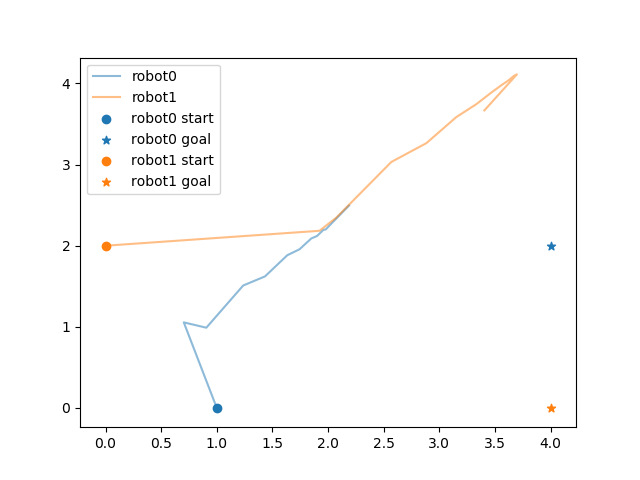
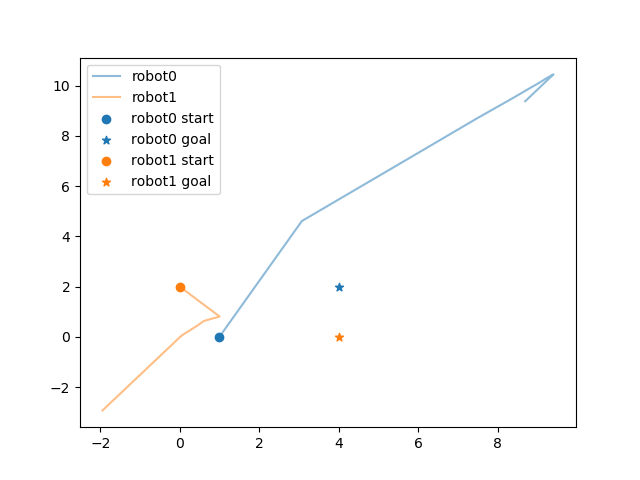
works ok

diff --git a/agent.py b/agent.py
@@ -21,7 +21,7 @@ class Robot():
         # self.u0= np.vstack((np.ones((self.dim,K)),
         #                     np.float64(np.random.randint(-2,5,
         #                                         size=(self.H,K)))))
-        self.u0=u0
+        self.u0=np.float64(np.random.randint(-2,5,size=(self.H*self.K,1)))
         # self.u0 =
         # self.u0 = np.ones((self.H,1))
         self.control=[]
@@ -71,31 +71,33 @@ class Robot():
         # pdb.set_trace()
         reach_goal =self.W @(self.col @ self.inits + self.M @ u )-self.goals
         regularization = 0
-        cost = 0.5 * np.linalg.norm(reach_goal,2) ** 2
-        self.away_from_the_goal=(cost*2)
-
+        print('final pos:')
+        print(self.W @(self.col @ self.inits + self.M @ u ))
+        # cost =
+        self.away_from_the_goal=( np.linalg.norm(reach_goal,2) **2)
 
         for j in range(self.K):
             if j == self.index:
                 pass #myself, skip
             else:
                 uj_prev = self.neighbors_dict[j]
-                regularization += np.linalg.norm(u-(self.u_prev+uj_prev)/2 )**2
+                regularization += self.rho/2.0 * np.linalg.norm(u-(self.u_prev+uj_prev)/2 )**2
         # pdb.set_trace()
         self.regularization=regularization
-        cost += self.rho/2.0 * regularization +(u.T @ self.lambd)[0,0]
 
-        # pdb.set_trace()
-        '''
-        todo: add collision avoidance
-        first two values of u should not change over iteration
-        '''
+        cost =0.5 * np.linalg.norm(reach_goal,2) ** 2+ regularization + ((u.T @ self.lambd)[0,0])
+
+        # return (1.0/self.K)*self.W @(self.col @ self.inits + self.M @ u )-self.goals + \
+        #                 self.rho/2.0 *np.linalg.norm(u-(self.u_prev+uj_prev)/2 )**2 + \
+        #                 (u.T @ self.lambd)[0,0]
+        # print('distacne cost:%.2f, regularize %.2f'%(0.5 * np.linalg.norm(reach_goal,2) ** 2,self.rho/2.0 *regularization))
         return cost
 
     def primal_update(self):
         result = sp.optimize.minimize(self.augmented_lagrangian,
                                     x0=self.u0,
-                                    method=self.method)#,
+                                    method='Nelder-Mead',
+                                    tol=0.1)#,
         self.cost=result['fun']
         # print('cost: %.3f'%self.cost)
         # pdb.set_trace()

diff --git a/run.py b/run.py
@@ -78,7 +78,7 @@ def main():
                         help='TrajOpt horizon (default: 4)')
     parser.add_argument('--dim', type=int, default=2,
                         help='state space dimension (default: 2)')
-    parser.add_argument('--solver', type=str, default='CG',
+    parser.add_argument('--solver', type=str, default='Nelder-Mead',
                         help='solver choice: choose \'CG\' or \'Powell\' to begin. default: CG')
 
     args = parser.parse_args()
@@ -126,8 +126,9 @@ def main():
     X = inits.reshape(-1,args.num_agents)
     while True:
         admm.solve()
-        if np.mod(traj_count,10) ==0 and traj_count>0:
-            print('iter %d .... ' %traj_count)
+        print('iter %d .... ' %traj_count)
+        # if np.mod(traj_count,10) ==0 and traj_count>0:
+
         new_u=robots[0].u.reshape(-1,args.num_agents)[[0],:]
         U=np.vstack((U,new_u))
         # pdb.set_trace()
@@ -137,17 +138,18 @@ def main():
         X = np.vstack((X,new_pos))
         simulate_the_rest_and_plot(X,U,robots[0].u.reshape(-1,args.num_agents),
                                     inits,goals,traj_count)
-
+        # '''
         #update u0 & x0 values
         for k in range(args.num_agents):
             robots[k].u0=np.copy(robots[0].u)
-            # robots[k].inits=np.copy(new_pos)
+            # pdb.set_trace()
+            robots[k].inits=np.copy(new_pos.reshape(-1,1))
         # paths=np.vstack((paths,next_pos))
         # pdb.set_trace()
         # print(goals)
         # print(new_pos)
         how_close=np.linalg.norm(new_pos-goals.reshape(-1,args.num_agents))
-        # print(how_close)
+        print('how close: %.2f'%how_close)
 
         if np.linalg.norm(new_pos-goals.reshape(-1,args.num_agents))<1:
             print('reached the goal')
@@ -156,7 +158,6 @@ def main():
         if traj_count >=args.max_steps:
             print('traj failed to converge, loop broken by the safety counter')
             # simulate the rest and go
-
             break
         traj_count +=1
 

diff --git a/run_admm.py b/run_admm.py
@@ -15,6 +15,7 @@ class ADMMSolver():
         for k in range(self.K):
             robot = self.robots[k]
             new_u=robot.primal_update()
+            # print(new_u)
             robot.dual_update(new_u)
 
     def update_my_data(self):
@@ -31,10 +32,10 @@ class ADMMSolver():
         result = np.zeros((self.K,1))
         # print(np.hstack((self.robots[0].u,self.robots[1].u)))
         while True:
+            print('admm iter %d .... ' %count)
 
             # if np.mod(count,2) ==0:
-                # print('iter %d .... ' %count)
-                # pdb.set_trace()
+            # pdb.set_trace()
             self.update_my_data()
 
             '''
@@ -59,7 +60,6 @@ class ADMMSolver():
             compare=self.robots[0].u.reshape(-1,1)
             dev = 0
             for k in range(1,self.K):
-
                 dev += np.linalg.norm(compare-self.robots[k].u.reshape(-1,1),2)
             if dev <self.threshold:
                 # pdb.set_trace()
